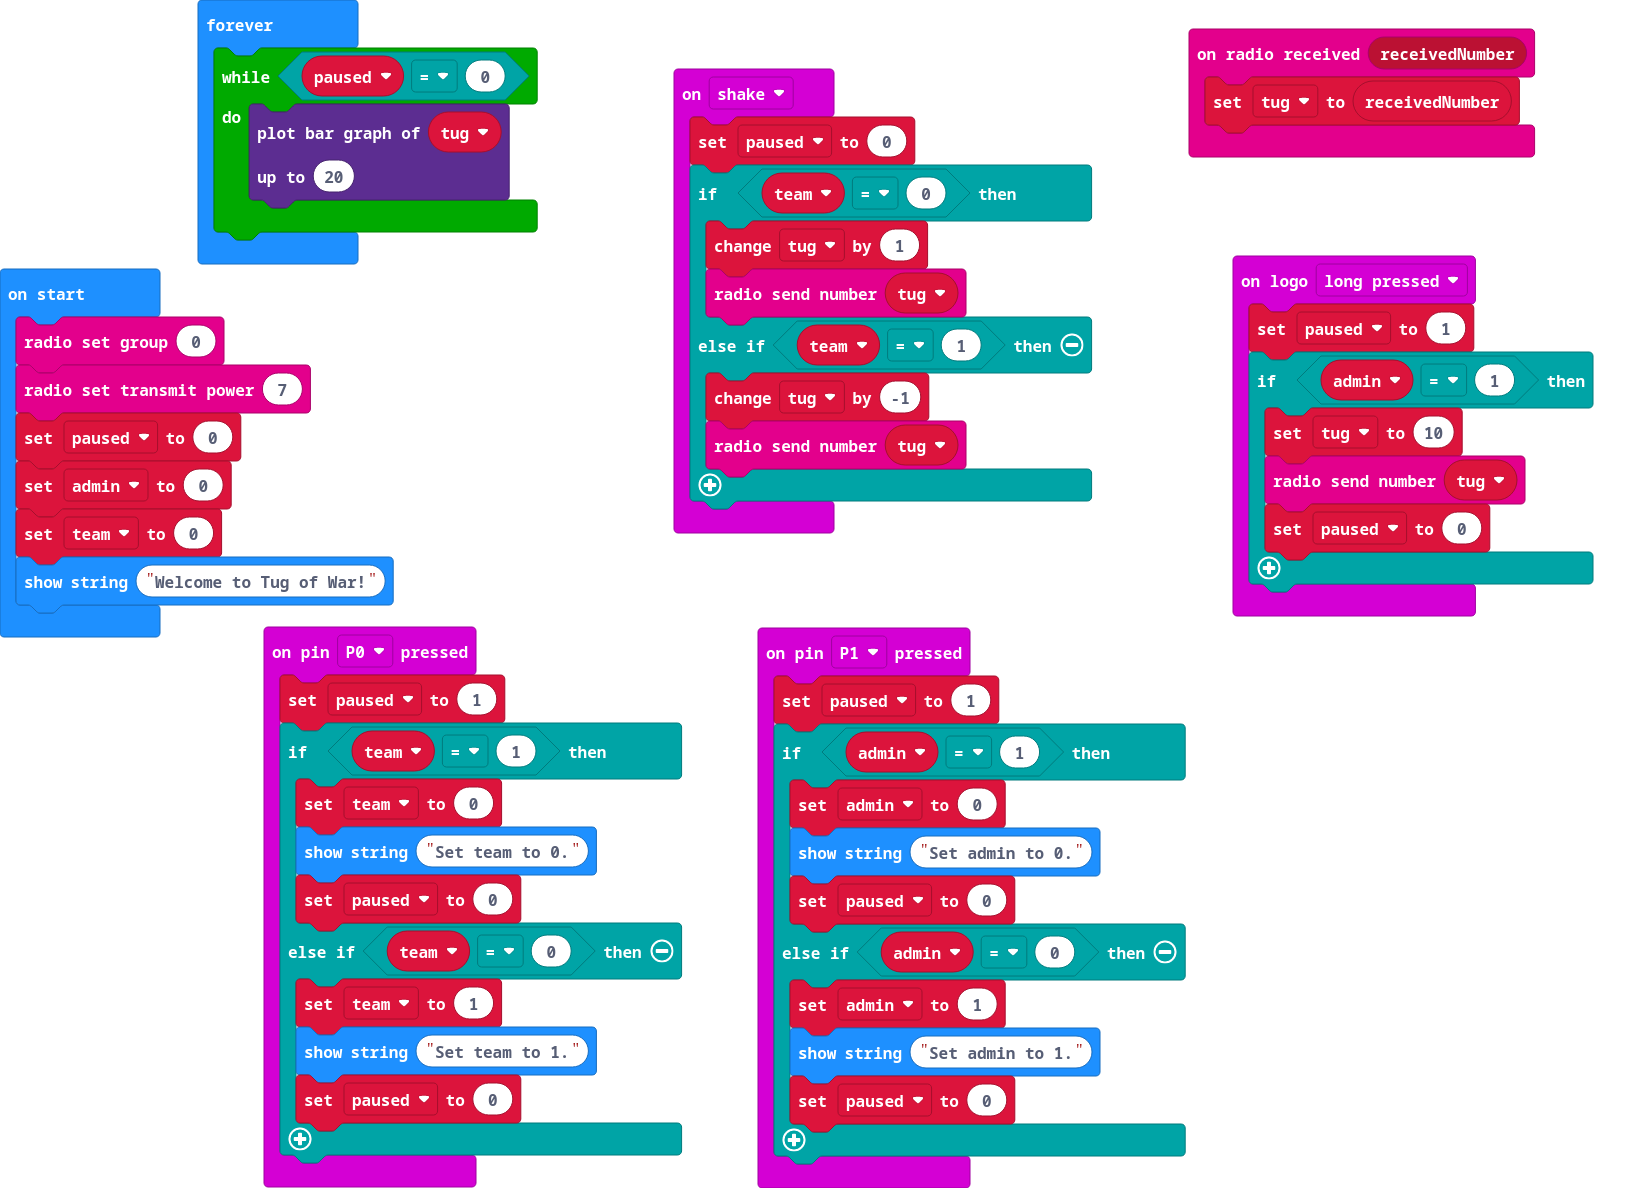
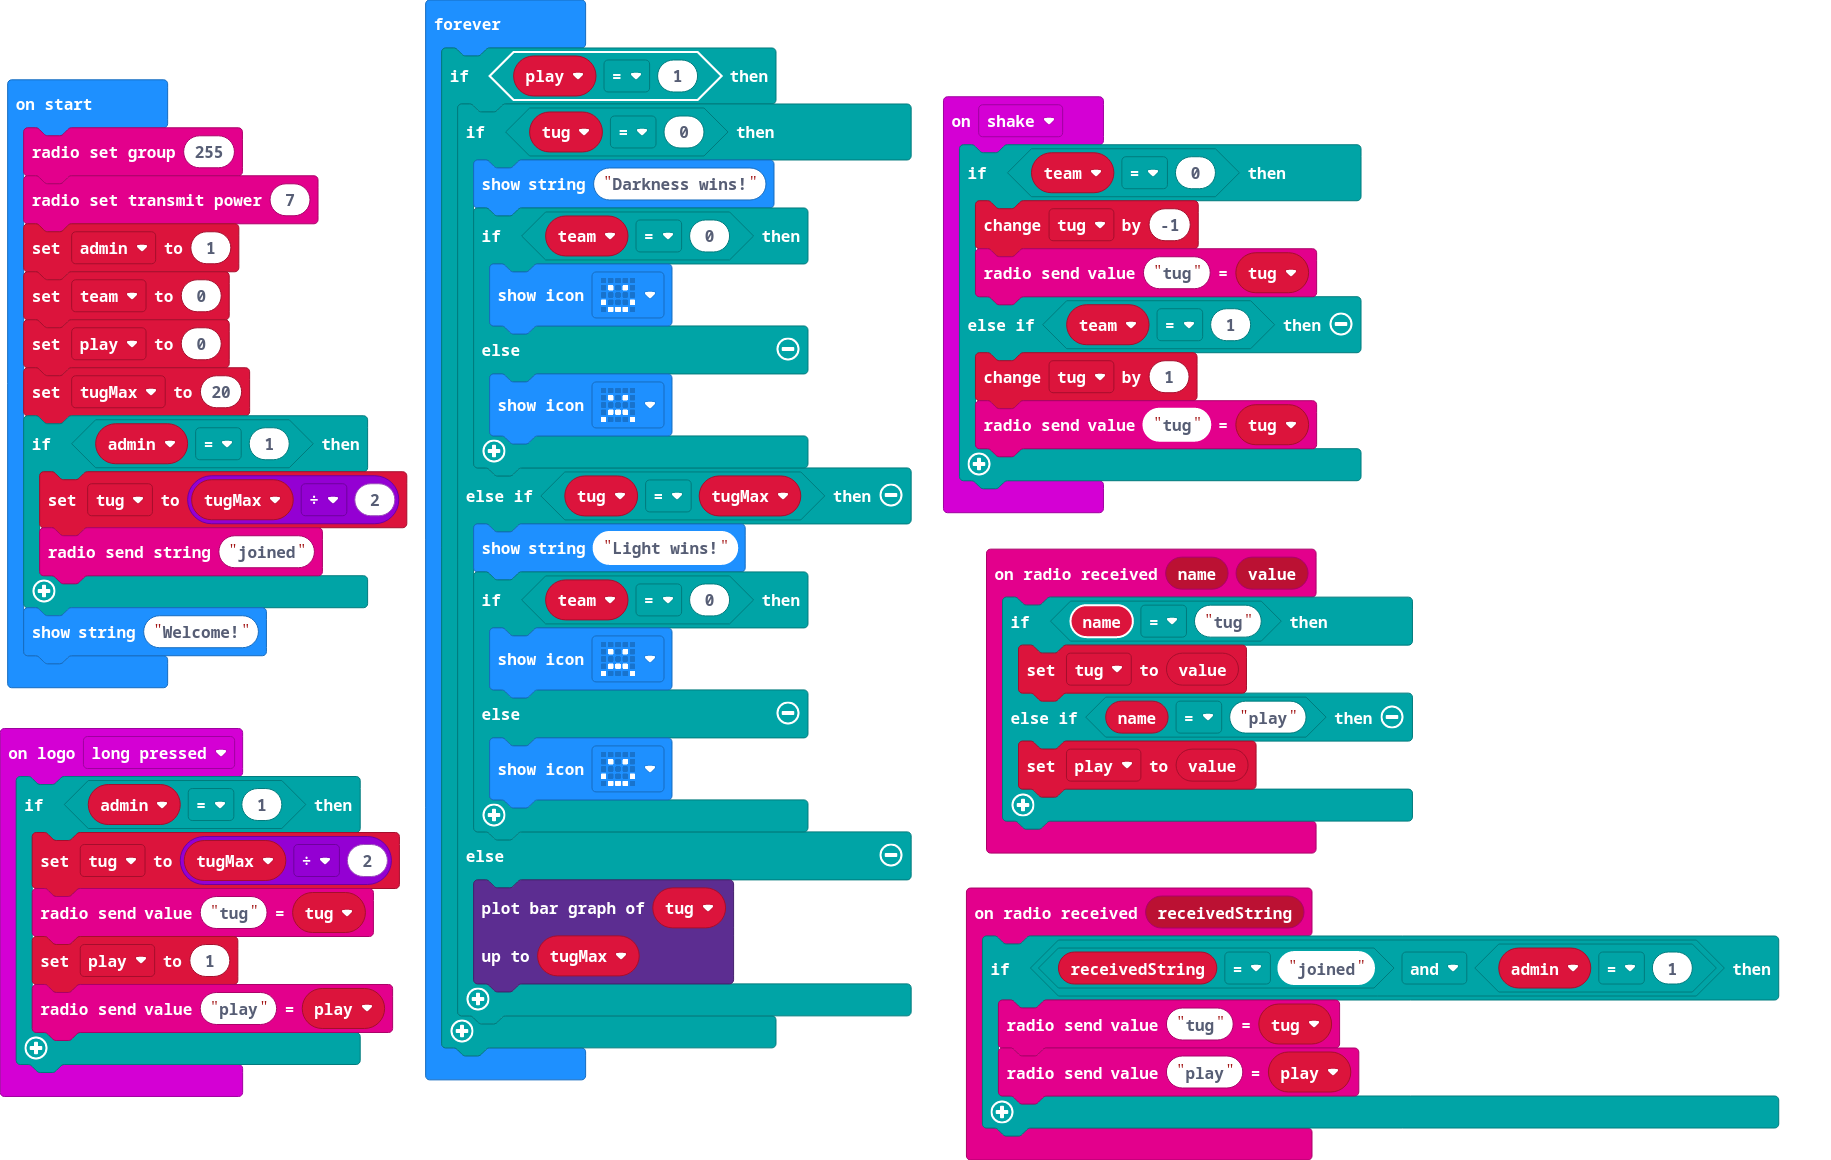
Overhaul EVERYTHING

diff --git a/main.ts b/main.ts
@@ -1,63 +1,70 @@
-input.onPinPressed(TouchPin.P0, function () {
-    paused = 1
-    if (team == 1) {
-        team = 0
-        basic.showString("Set team to 0.")
-        paused = 0
-    } else if (team == 0) {
-        team = 1
-        basic.showString("Set team to 1.")
-        paused = 0
-    }
-})
-radio.onReceivedNumber(function (receivedNumber) {
-    tug = receivedNumber
-})
 input.onLogoEvent(TouchButtonEvent.LongPressed, function () {
-    paused = 1
     if (admin == 1) {
-        tug = 10
-        radio.sendNumber(tug)
-        paused = 0
+        tug = tugMax / 2
+        radio.sendValue("tug", tug)
+        play = 1
+        radio.sendValue("play", play)
     }
 })
-input.onPinPressed(TouchPin.P1, function () {
-    paused = 1
-    if (admin == 1) {
-        admin = 0
-        basic.showString("Set admin to 0.")
-        paused = 0
-    } else if (admin == 0) {
-        admin = 1
-        basic.showString("Set admin to 1.")
-        paused = 0
+radio.onReceivedString(function (receivedString) {
+    if (receivedString == "joined" && admin == 1) {
+        radio.sendValue("tug", tug)
+        radio.sendValue("play", play)
     }
 })
 input.onGesture(Gesture.Shake, function () {
-    paused = 0
     if (team == 0) {
-        tug += 1
-        radio.sendNumber(tug)
-    } else if (team == 1) {
         tug += -1
-        radio.sendNumber(tug)
+        radio.sendValue("tug", tug)
+    } else if (team == 1) {
+        tug += 1
+        radio.sendValue("tug", tug)
+    }
+})
+radio.onReceivedValue(function (name, value) {
+    if (name == "tug") {
+        tug = value
+    } else if (name == "play") {
+        play = value
     }
 })
 let tug = 0
+let tugMax = 0
+let play = 0
 let team = 0
 let admin = 0
-let paused = 0
-radio.setGroup(0)
+radio.setGroup(255)
 radio.setTransmitPower(7)
-paused = 0
-admin = 0
+admin = 1
 team = 0
-basic.showString("Welcome to Tug of War!")
+play = 0
+tugMax = 20
+if (admin == 1) {
+    tug = tugMax / 2
+    radio.sendString("joined")
+}
+basic.showString("Welcome!")
 basic.forever(function () {
-    while (paused == 0) {
-        led.plotBarGraph(
-        tug,
-        20
-        )
+    if (play == 1) {
+        if (tug == 0) {
+            basic.showString("Darkness wins!")
+            if (team == 0) {
+                basic.showIcon(IconNames.Happy)
+            } else {
+                basic.showIcon(IconNames.Sad)
+            }
+        } else if (tug == tugMax) {
+            basic.showString("Light wins!")
+            if (team == 0) {
+                basic.showIcon(IconNames.Sad)
+            } else {
+                basic.showIcon(IconNames.Happy)
+            }
+        } else {
+            led.plotBarGraph(
+            tug,
+            tugMax
+            )
+        }
     }
 })

diff --git a/main.py b/main.py
@@ -1,0 +1,67 @@
+def on_pin_pressed_p0():
+    global paused, team
+    paused = 1
+    if team == 1:
+        team = 0
+        basic.show_string("Set team to 0.")
+        paused = 0
+    elif team == 0:
+        team = 1
+        basic.show_string("Set team to 1.")
+        paused = 0
+input.on_pin_pressed(TouchPin.P0, on_pin_pressed_p0)
+
+def on_received_number(receivedNumber):
+    global tug
+    tug = receivedNumber
+radio.on_received_number(on_received_number)
+
+def on_logo_long_pressed():
+    global paused, tug
+    paused = 1
+    if admin == 1:
+        tug = 10
+        radio.send_number(tug)
+        paused = 0
+input.on_logo_event(TouchButtonEvent.LONG_PRESSED, on_logo_long_pressed)
+
+def on_pin_pressed_p1():
+    global paused, admin
+    paused = 1
+    if admin == 1:
+        admin = 0
+        basic.show_string("Set admin to 0.")
+        paused = 0
+    elif admin == 0:
+        admin = 1
+        basic.show_string("Set admin to 1.")
+        paused = 0
+input.on_pin_pressed(TouchPin.P1, on_pin_pressed_p1)
+
+def on_gesture_shake():
+    global tug, paused
+    if team == 0:
+        tug += 1
+        radio.send_number(tug)
+    elif team == 1:
+        tug += -1
+        radio.send_number(tug)
+    paused = 0
+input.on_gesture(Gesture.SHAKE, on_gesture_shake)
+
+tug = 0
+team = 0
+admin = 0
+paused = 0
+radio.set_group(0)
+radio.set_frequency_band(83)
+radio.set_transmit_power(7)
+paused = 0
+admin = 0
+team = 0
+basic.show_string("Welcome to Tug of War!")
+
+def on_forever():
+    if paused == 0:
+        led.plot_bar_graph(tug, 20)
+basic.forever(on_forever)
